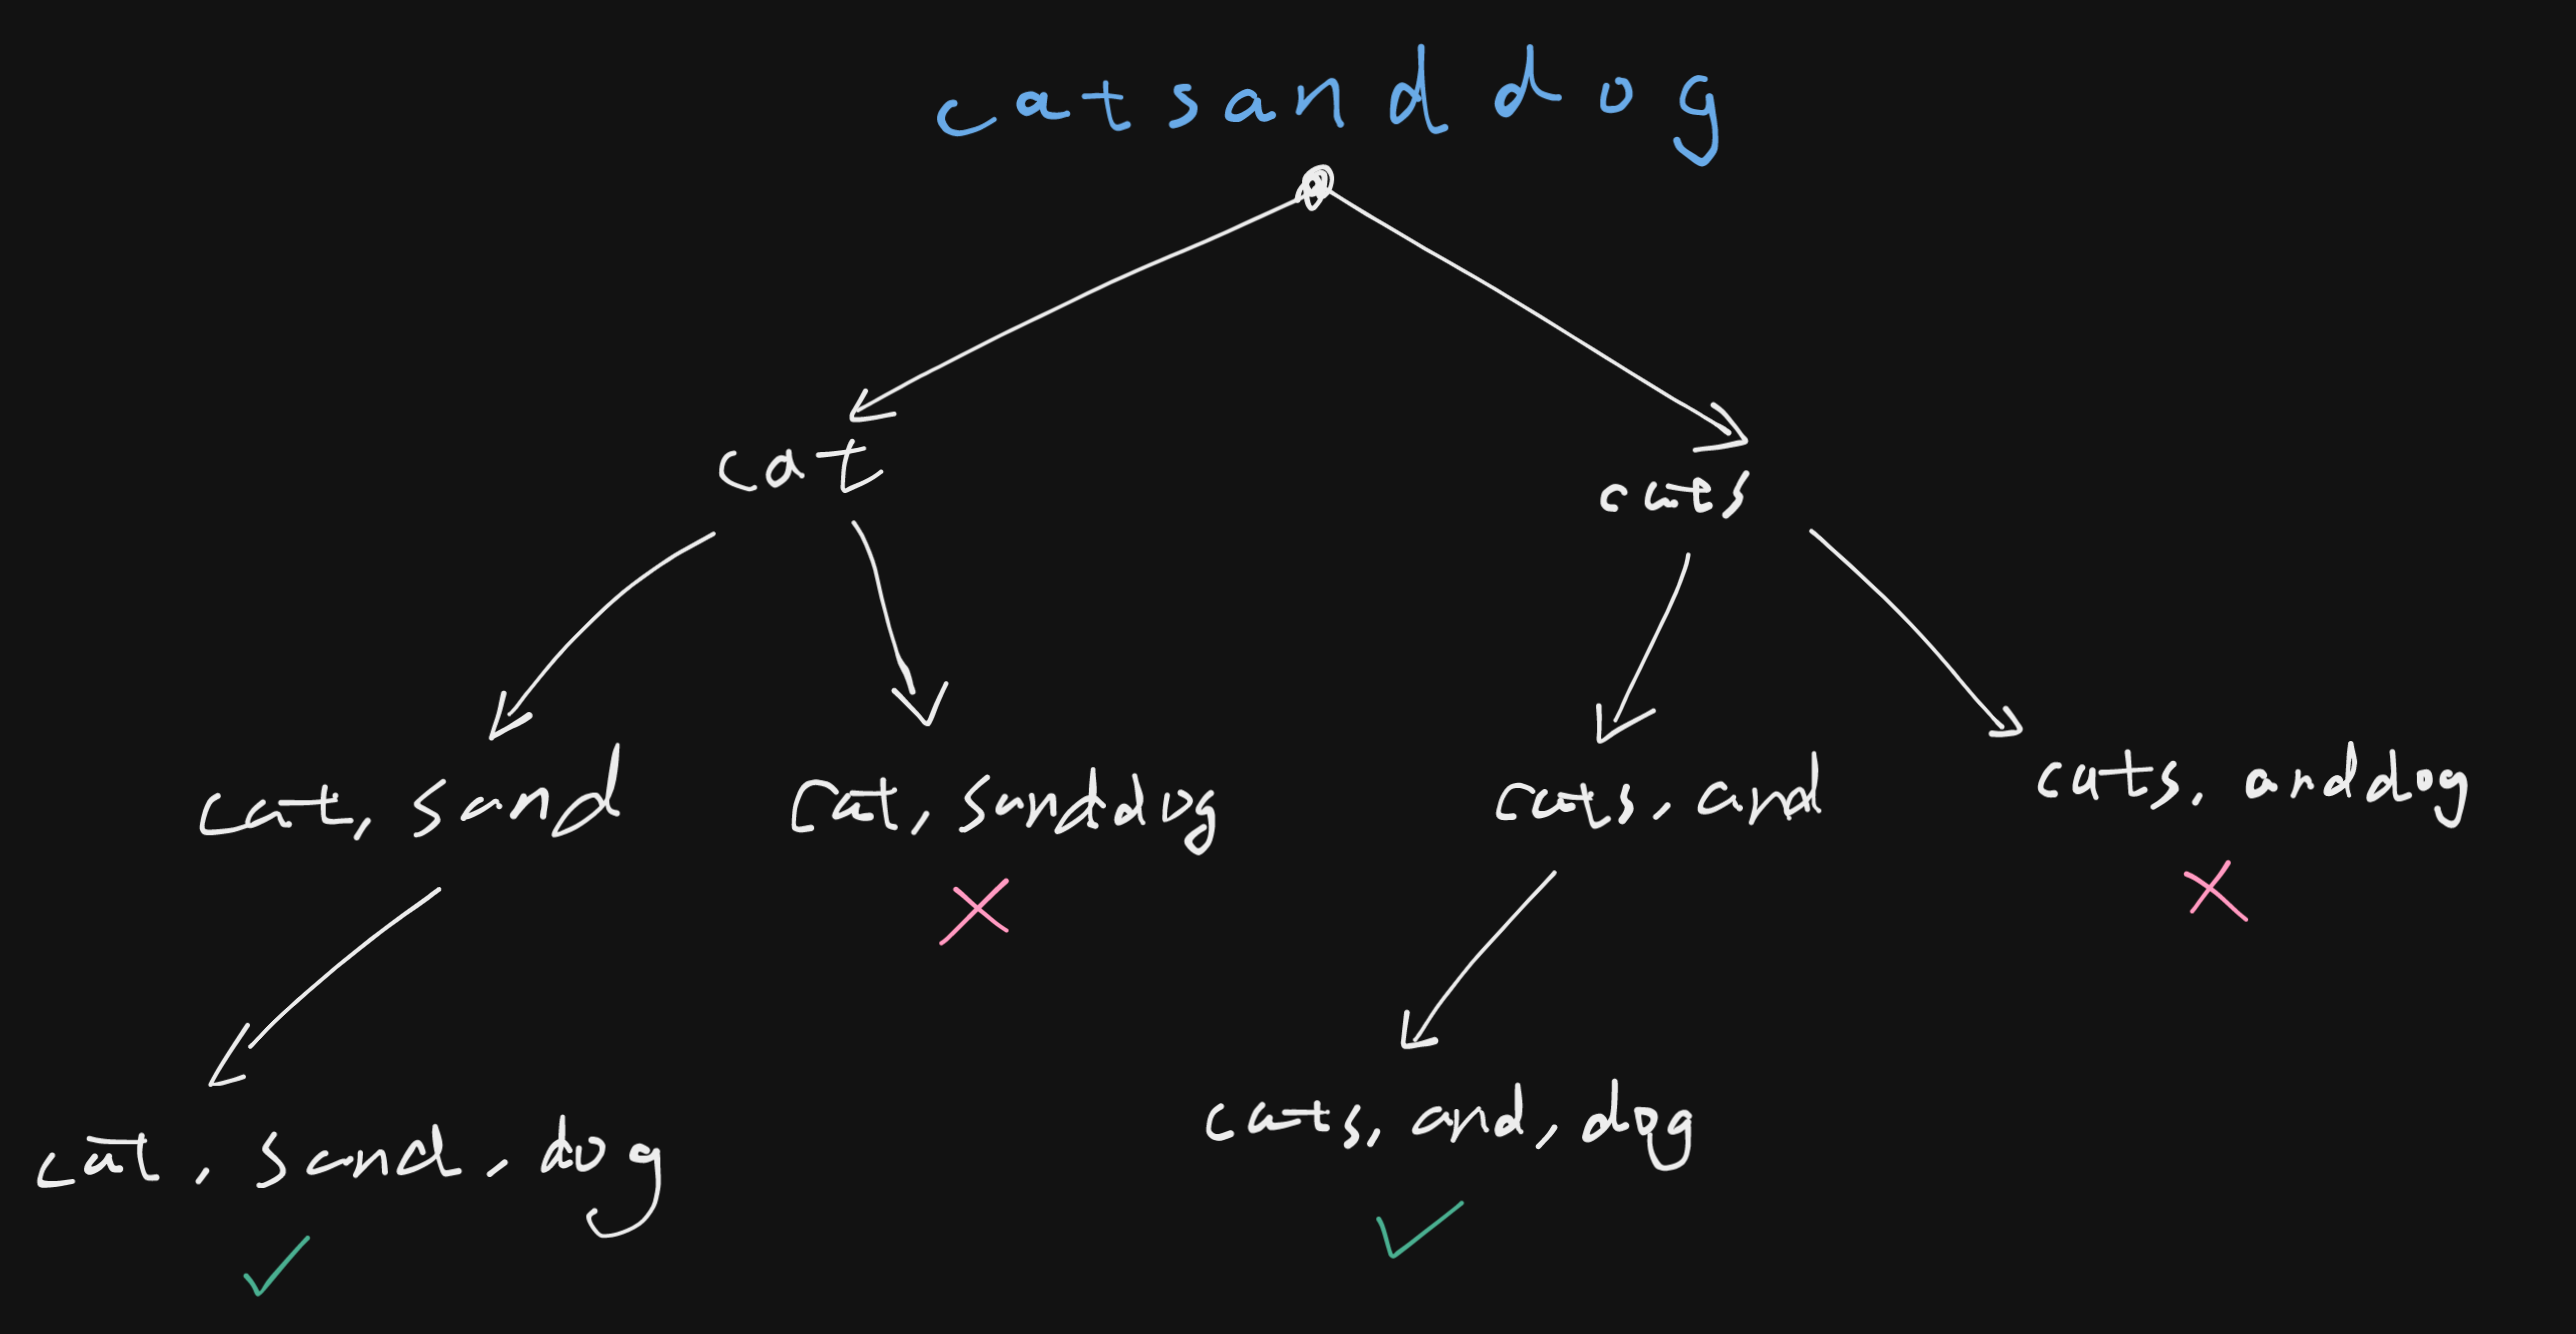
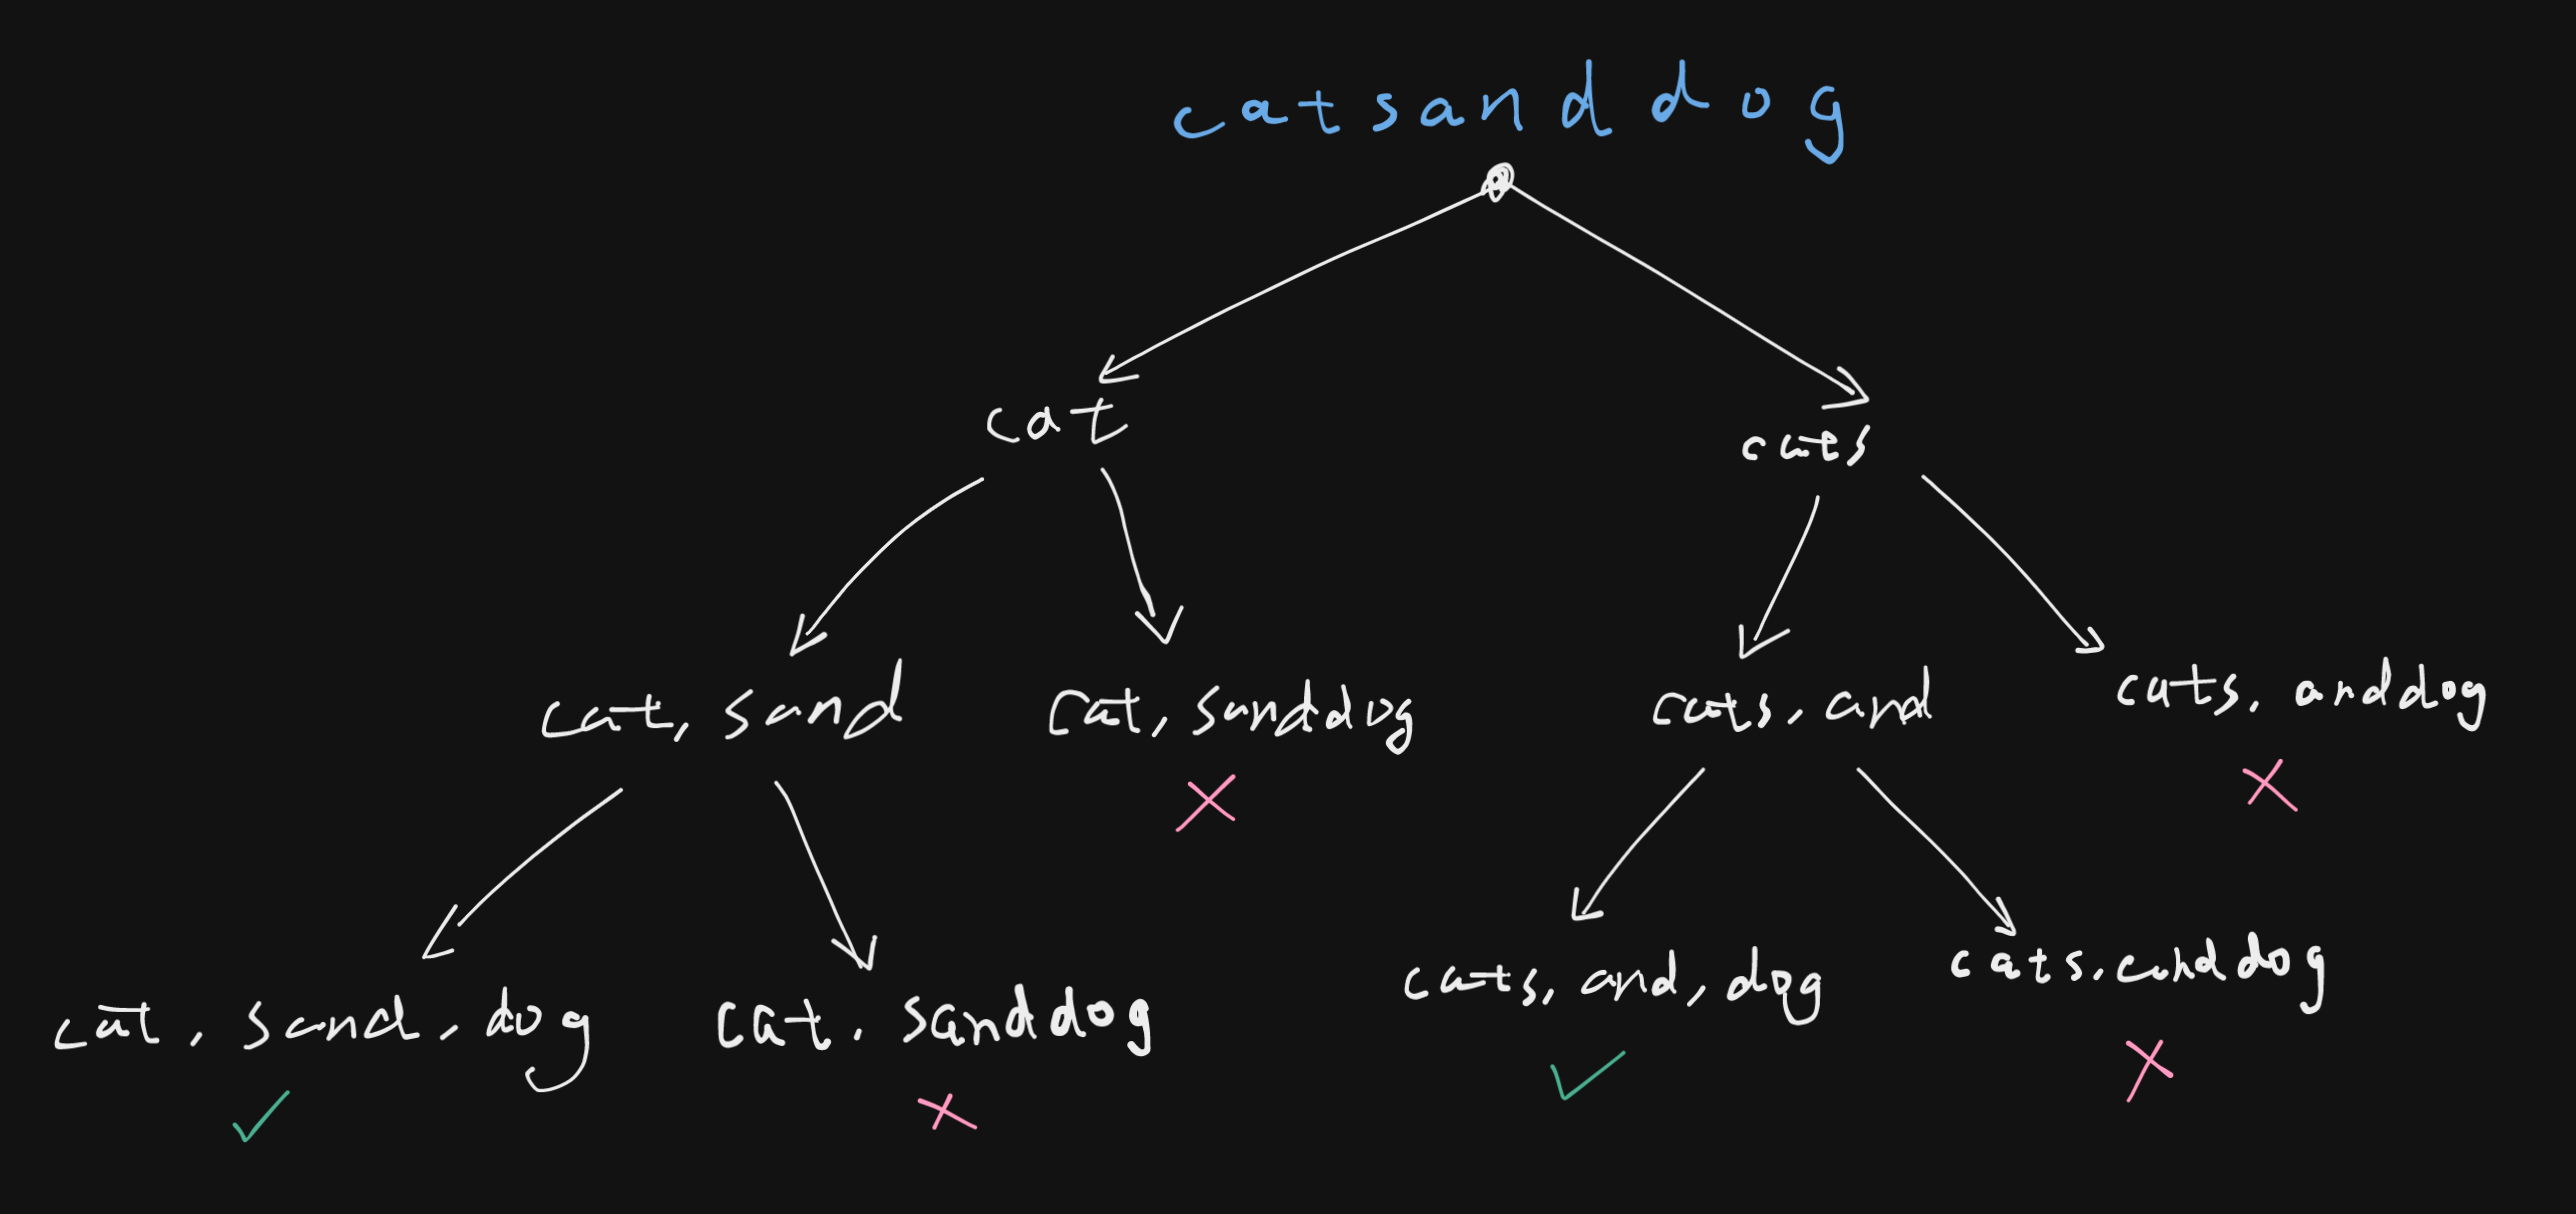
edit solution: 140

diff --git a/problems-by-tag/backtracking/hard/#140. Word Break II.md b/problems-by-tag/backtracking/hard/#140. Word Break II.md
@@ -22,9 +22,14 @@ Output: ["cats and dog","cat sand dog"]
 - `s` and `wordDict[i]` consist of only lowercase English letters.
 - All the strings of `wordDict` are unique.
 
-## Approach
+## Approach: Backtracking
 
-<img src="./../images/140-image-1.png" width="700"/><br/>
+<img src="./../../../images/140-image-1.png" width="700"/><br/>
+<img src="./../../../images/140-image-2.png" width="700"/><br/>
+
+The actual backtracking tree:
+
+<img src="./../../../images/140-image-3.png" width="700"/><br/>
 
 ```python
 # python3
@@ -32,7 +37,7 @@ Output: ["cats and dog","cat sand dog"]
 # n - the length of the string s
 # w - the number of the word in the wordDict
 
-# Time Complexity: O(2^n * n), the worst case
+# Time Complexity: ?
 # Space Complexity: ?
 
 class Solution:
